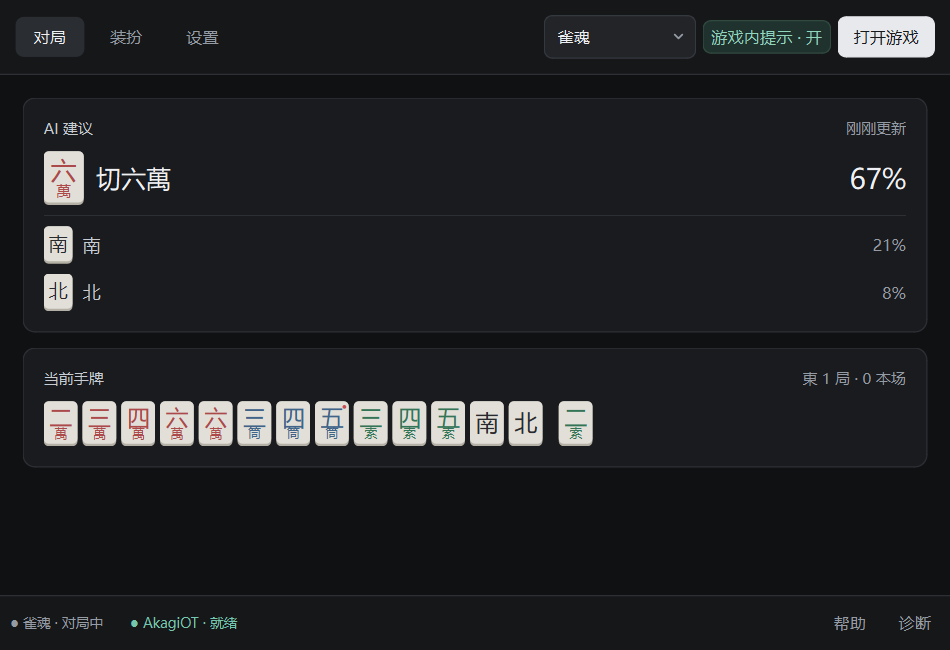
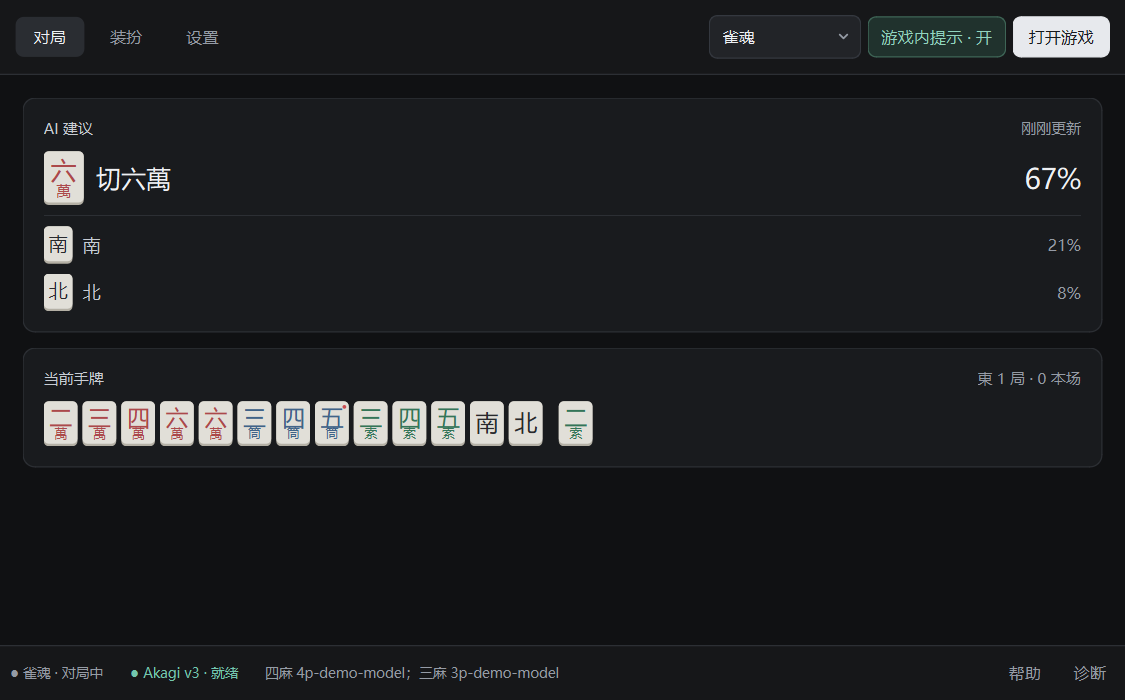
更新 README 与界面截图，完善安装和模型配置说明
重新生成主界面、AI 连接、代理配置和装扮页截图，补充实际游戏内提示卡片，移除旧独立悬浮窗截图。
精简重复的 exe 和历史工作目录说明，补充首次获取、选择、保存模型及查看加载状态的步骤。
明确 Akagi v3 与旧版 OT 的三麻依赖区别，修正文档链接。
新增离线截图生成工具，使用临时配置与虚构型号，不包含个人凭据。
同步更新 CHANGELOG 和发布说明；截图生成、文档链接及发布文件检查通过。

diff --git a/scripts/capture_readme.py b/scripts/capture_readme.py
@@ -1,0 +1,132 @@
+# Modified for MahjongCopilotPlus on 2026-11-04; see NOTICE.md.
+"""Capture current Qt/HTML widgets with disposable offline demonstration data.
+
+Run from the repository root: python scripts/capture_readme.py
+No backend, account settings, proxy server or global hotkey is started.
+"""
+import json
+import os
+from pathlib import Path
+import sys
+import tempfile
+import time
+from types import SimpleNamespace
+from unittest.mock import patch
+
+os.environ.setdefault('QT_SCALE_FACTOR', '1')
+ROOT = Path(__file__).resolve().parent.parent
+sys.path.insert(0, str(ROOT/'tests'))
+sys.path.insert(0, str(ROOT))
+
+from qt_preview import create_preview, create_application, Settings
+from bot_manager import mjai_reaction_2_guide
+from common.lan_str import LanStrZHS
+from common.log_helper import LOGGER
+from common.presentation import advice_rows
+from game.guide_overlay import RENDER_GUIDE
+from playwright.sync_api import sync_playwright
+
+OUTPUT = ROOT/'assets/screenshots'
+MODELS = {'4p':'4p-demo-model', '3p':'3p-demo-model'}
+
+
+def pump(app):
+    deadline = time.monotonic()+.15
+    while time.monotonic()<deadline:
+        app.processEvents()
+        time.sleep(.01)
+
+
+def capture_desktop():
+    LOGGER.setLevel(50)
+    app = create_application()
+    app.setQuitOnLastWindowClosed(False)
+    with tempfile.TemporaryDirectory(prefix='copilot-readme-') as directory:
+        st = Settings(str(Path(directory)/'settings.json'))
+        st.desktop_size = [900,560]
+        st.model_type, st.akagi_ot_protocol = 'AkagiOT', 'v3'
+        st.akagi_v3_apikey = 'demo-only-not-a-real-key'
+        st.akagi_v3_model_4p, st.akagi_v3_model_3p = MODELS['4p'], MODELS['3p']
+        # Never read or alter the user's wardrobe selection or enable flag.
+        with patch('gui.wardrobe.expansion_enabled',return_value=True):
+            window = create_preview(st)
+        manager = window.bot_manager
+        manager.bot = SimpleNamespace(name='Offline demonstration',protocol='v3',
+                                      models=MODELS,model_confirmed=False)
+        manager.mitm_proxinject_need_update = False
+        window.show()
+        try:
+            pump(app)
+            window._refresh_game()
+            pump(app)
+            assert '4p-demo-model' in window.model_status.toolTip()
+            assert window.hand_card.isVisible()
+            assert window.grab().save(str(OUTPUT/'game.png'))
+
+            window.resize(900,660)
+            window.show_settings(1)
+            pump(app)
+            page = window.settings_page
+            assert page.fields['akagi_v3_apikey'].text()==st.akagi_v3_apikey
+            assert page.fields['akagi_v3_apikey'].echoMode().name=='Password'
+            assert page.fetch_ot_button.isVisible()
+            assert page.pages.widget(1).verticalScrollBar().maximum()==0
+            assert window.grab().save(str(OUTPUT/'ai.png'))
+
+            window.show_settings(3)
+            window.show_connection()
+            pump(app)
+            assert not window.connection_upstream_switch.isChecked()
+            assert st.mitm_port==10999 and st.upstream_proxy==''
+            assert window.grab().save(str(OUTPUT/'proxy.png'))
+            window._modal.dismiss()
+
+            window.resize(900,560)
+            window.show_page(1)
+            pump(app)
+            assert window.btn_start_browser.text()=='打开游戏'
+            assert window.grab().save(str(OUTPUT/'wardrobe.png'))
+        finally:
+            manager.game_state = None
+            window.close()
+            deadline = time.monotonic()+5
+            while not window._shutdown_finished and time.monotonic()<deadline:
+                pump(app)
+            assert window._shutdown_finished
+
+
+def capture_overlay():
+    with sync_playwright() as playwright:
+        browser = playwright.chromium.launch(headless=True,chromium_sandbox=True)
+        try:
+            page = browser.new_page(viewport={'width':1280,'height':720},device_scale_factor=2)
+            # Block all network requests, including any accidental asset loads.
+            page.route('**/*',lambda route:route.abort())
+            page.set_content('<body style="margin:0;background:#101113"><canvas id="owner"></canvas></body>')
+            line, options = mjai_reaction_2_guide(
+                {'type':'dahai','pai':'6m','meta_options':[('6m',.67),('S',.21),('N',.08)]},
+                3,LanStrZHS())
+            rendered = page.evaluate(RENDER_GUIDE,{
+                'id':'readme-guide','ownerId':'owner','line':line,'options':options,
+                'left':0,'top':0,'width':1280,'height':720,
+                'rows':advice_rows(line,options,LanStrZHS())})
+            assert rendered is not False
+            card = page.locator('#readme-guide')
+            assert card.locator('[data-guide-row]').count()==3
+            assert card.locator('[data-guide-tile]').count()==3
+            card.screenshot(path=str(OUTPUT/'overlay.png'))
+        finally:
+            browser.close()
+
+
+def main():
+    OUTPUT.mkdir(parents=True,exist_ok=True)
+    with patch('requests.sessions.Session.request',side_effect=RuntimeError('README capture is offline')):
+        capture_desktop()
+        capture_overlay()
+    print(json.dumps({'ok':True,'screenshots':['game.png','ai.png','proxy.png','wardrobe.png','overlay.png'],
+                      'data':'offline fixtures; demonstration model IDs; no account credentials'}))
+
+
+if __name__=='__main__':
+    main()

diff --git a/readme.md b/readme.md
@@ -9,15 +9,17 @@
 
 MahjongCopilotPlus 在 [MahjongCopilot](https://github.com/latorc/MahjongCopilot) 的基础上持续开发，参考 [MahjongCopilot-max](https://github.com/jiboyingg/MahjongCopilot-max) 的整合思路，接入 [MajsoulMax](https://github.com/Avenshy/MajsoulMax)，并重构桌面界面、设置和提示体验。
 
-当前支持 **雀魂三麻／四麻**，具体可用模式取决于模型服务及本机原生库。天凤、一番街、天月麻将、掌心麻将仍在规划中，尚未实现。本项目与各游戏平台及上游项目没有官方隶属关系。
+当前支持 **雀魂三麻／四麻**。Akagi v3 三麻无需本地三麻扩展；本地模型与旧版 OT 的原生库要求见下文。天凤、一番街、天月麻将、掌心麻将仍在规划中，尚未实现。本项目与各游戏平台及上游项目没有官方隶属关系。
 
-> 本项目现采用 **源码部署 + `start.bat` 启动**，后续版本不再构建或上传 exe／Windows 便携包。请自行安装 Python 3.11 x64、依赖与 Chromium。历史 exe 为固定快照，不会随源码更新。Issues、PR 和后续源码更新以[本仓库](https://github.com/btlstar/MahjongCopilotPlus)为准；上游下载站和社群不是 Plus 的支持渠道。
+> **源码部署，通过 `start.bat` 启动。** 请先安装 Python 3.11 x64、依赖与 Chromium；不提供 exe／免安装运行包。更新与问题反馈请使用[本仓库](https://github.com/btlstar/MahjongCopilotPlus)。
 
-![主界面，使用离线示例数据](assets/screenshots/game.png)
+![对局页：AI 建议、当前手牌及底部已加载型号](assets/screenshots/game.png)
+
+截图基于 `v0.1.0-preview.3` 的实际界面，以离线演示数据生成；`4p-demo-model`／`3p-demo-model` 为虚构示例，不是可用型号、默认型号或最新型号推荐。
 
 ## 当前版本
 
-`v0.1.0-preview.3`：完善 AI 连接与模型状态，修复刷新后的游戏内提示恢复及网络异常时程序误关浏览器的问题。仅发布源码，安装依赖后使用 BAT 启动。详见[本次发布说明](docs/RELEASE_NOTES.md)与[更新记录](CHANGELOG.md)。
+`v0.1.0-preview.3`：完善 AI 连接与模型状态，修复刷新后的游戏内提示恢复及网络异常时程序误关浏览器的问题。详见[本次发布说明](docs/RELEASE_NOTES.md)与[更新记录](CHANGELOG.md)。
 
 ## 特性
 
@@ -33,19 +35,23 @@ MahjongCopilotPlus 在 [MahjongCopilot](https://github.com/latorc/MahjongCopilot
 <details>
 <summary>更多界面截图</summary>
 
-AI 连接设置：
+AI 连接设置：密钥显隐、按玩法选择型号、获取列表与测试连接。
 
-![AI 连接](assets/screenshots/ai.png)
+![AI 连接设置，使用虚构型号与隐藏的演示密钥](assets/screenshots/ai.png)
 
-程序内连接配置：
+游戏内提示卡片（局部截图）：与主界面共享麻将牌样式，整张卡片可拖动，不另开独立窗口。
+
+![实际游戏内 HTML 提示卡片，离线渲染](assets/screenshots/overlay.png)
+
+程序内连接配置：本地端口与上游代理分开设置，图中为关闭上游代理。
 
 ![连接与代理](assets/screenshots/proxy.png)
 
-装扮搭配参考：
+装扮搭配参考：在游戏内逐项装备，不支持 GUI 一键应用。
 
 ![装扮页](assets/screenshots/wardrobe.png)
 
-以上截图均使用离线示例数据，不代表连接到了实际账号。
+截图不包含个人账号、真实密钥或私人对局，也不表示已连接线上服务。
 
 </details>
 
@@ -59,9 +65,9 @@ AI 连接设置：
 
 ### 获取源码
 
-推荐通过 GitHub Desktop Clone 本仓库，之后在同一个工作目录 Pull、修改和运行。也可下载某一 Release 的 `Source code (zip)` 后自行安装依赖；它不是免安装运行包。后续不提供 `windows-x64.zip`。
+推荐通过 GitHub Desktop Clone 本仓库，后续在同一目录 Pull 更新。也可下载 Release 的 `Source code (zip)` 后安装依赖；该文件仅包含源码。
 
-只维护一份工作树；旧下载目录和历史 exe 不再作为开发入口。具体目录约定见[开发目录说明](docs/WORKSPACE.md)，更新及配置迁移见[升级说明](docs/UPGRADING.md)。
+更新及旧版配置迁移见[升级说明](docs/UPGRADING.md)；参与开发请参阅[工作目录约定](docs/WORKSPACE.md)。
 
 ### 源码安装与启动
 
@@ -79,7 +85,12 @@ py -3.11 -m venv venv
 
 完成安装后，可双击根目录 **`start.bat`**。它使用项目内的 `venv`，不是免安装启动器。
 
-首次启动会生成本地 `settings.json`。打开“设置 → AI 连接”，配置并测试模型来源，保存后等待 AI 加载，再点击“打开游戏”。程序会使用自己启动的浏览器进行连接和捕获。
+首次启动会生成本地 `settings.json`。以 Akagi v3 为例：
+
+1. 打开“设置 → AI 连接”，选择 `AkagiOT` 和 `Akagi v3 · 可选模型`，填写对应 API Key。
+2. 点击“获取可用模型”，在四麻／三麻下拉框选择所需型号；至少选择一种玩法，留空的玩法不启用。
+3. 测试连接后保存，等待底部状态栏显示就绪及已加载型号。测试通过只代表连接与授权检查通过。
+4. 点击“打开游戏”，在程序启动的浏览器中进入对局。顶栏“游戏内提示”控制游戏内卡片；没有建议时可从右下角“诊断”查看原因。
 
 如果显示代理证书安装错误，按[安装与排错说明](docs/INSTALL.md)处理。不要将程序生成的证书私钥、浏览器资料或含凭据的设置文件提交到 GitHub。
 
@@ -87,19 +98,20 @@ py -3.11 -m venv venv
 
 | 来源 | 需要准备 |
 | --- | --- |
-| AkagiOT | Akagi v3 可指定四麻／三麻模型；旧版 OT 使用服务端默认。两种接口分别保存地址与 API Key，见[配置说明](docs/INSTALL.md#ai-配置) |
+| Akagi v3（AkagiOT 来源） | 对应服务的 API Key；获取授权列表后手动选择四麻／三麻型号；三麻无需本地扩展 |
+| 旧版 OT（AkagiOT 来源） | 兼容旧接口的地址与密钥；使用服务端默认型号，三麻需要额外原生库 |
 | MJAI | 服务地址、已有账户的用户名和密钥，以及可用模型 |
 | 本地 Mortal | 与当前引擎兼容的权重；四麻与三麻分别选择文件 |
 
 本地模型和旧版 OT 的四麻原生依赖通过 `requirements.txt` 中的 `riichi` 安装；其三麻还需单独取得匹配 Python 版本、系统和架构的 `libriichi3p`，它不随本源码仓库分发。**Akagi v3 使用服务端推理，三麻无需该本地扩展。**具体文件名和注意事项见[安装说明](docs/INSTALL.md#三麻原生库)。模型权重和外部原生库始终遵循其原始分发条款。
 
-切换 AI 来源只切换配置表单，不代表已连接成功。保存后的新模型会在非对局状态加载；对局中更改会延后至当前对局结束。
+不同来源与新旧 Akagi 接口分别保存配置，密钥不保证通用。切换来源只切换表单；保存后的新模型在非对局状态加载，对局中更改延后至当前对局结束。详见[AI 配置说明](docs/INSTALL.md#ai-配置)。
 
 ## 装扮扩展
 
 内置集成基于 MajsoulMax `v2026.07.07`，资源／协议快照为 MajsoulData `0.16.289-4.0.51`。准确版本、来源和校验值见 [data_version.json](mjmax/config/data_version.json)，更新方式见[集成说明](mjmax/INTEGRATION.md)。这不是“永久支持所有最新皮肤”的保证。
 
-装扮在游戏内选择，个人选择写入被 Git 忽略的本地配置。GUI 中的两套搭配为参考，不会自动替换你的装备。修改效果属于本地客户端显示，不会给账号增加服务器端拥有的物品。
+装扮在游戏内选择，个人选择写入被 Git 忽略的本地配置。GUI 中的搭配为参考，不会自动替换你的装备。修改效果属于本地客户端显示，不会给账号增加服务器端拥有的物品。
 
 ## 功能范围与使用提示
 
@@ -123,7 +135,8 @@ py -3.11 -m venv venv
 - [MajsoulMax 集成与数据更新](mjmax/INTEGRATION.md)
 - [贡献指南](CONTRIBUTING.md)
 - [更新记录](CHANGELOG.md)
-- [发布说明草稿与流程](docs/PUBLISHING.md)
+- [当前版本发布说明](docs/RELEASE_NOTES.md)
+- [源码发布流程](docs/PUBLISHING.md)
 - [第三方来源与许可](THIRD_PARTY_NOTICES.md)
 
 离线检查：
@@ -134,6 +147,8 @@ py -3.11 -m venv venv
 .\venv\Scripts\python.exe tests/native_desktop_smoke.py
 .\venv\Scripts\python.exe scripts/check_publication.py
 ```
+
+重新生成 README 截图：`python scripts/capture_readme.py`。该工具使用临时配置和虚构型号渲染真实 Qt／HTML 组件，不启动真实游戏、代理或 AI 后端，不注册老板键，也不读取个人设置。
 
 桌面检查会打开临时的离线测试窗口，不登录真实游戏。源码预览通过离线检查不代表所有游戏版本、服务接口或自动点击场景均经过实战验证。
 
@@ -154,4 +169,4 @@ py -3.11 -m venv venv
 
 ---
 
-**English:** MahjongCopilotPlus is a community-maintained MahjongCopilot derivative with a redesigned dark Qt desktop, consistent tile rendering, draggable advice overlays, configurable global hotkeys, and optional MajsoulMax integration. Mahjong Soul is currently supported; other platforms are planned. Model weights, credentials and optional three-player/client-injection dependencies are not bundled. Future updates are distributed as source only; install Python and dependencies, then launch with start.bat. Historical exe builds are snapshots and are no longer updated. See the license and third-party notices before redistribution.
+**English:** MahjongCopilotPlus is a community-maintained MahjongCopilot derivative with a redesigned dark Qt desktop, consistent tile rendering, draggable advice overlays, configurable global hotkeys, and optional MajsoulMax integration. Mahjong Soul is currently supported; other platforms are planned. Model weights, credentials and optional three-player/client-injection dependencies are not bundled. Distributed as source only; install Python, dependencies and Chromium, then launch with start.bat. See the license and third-party notices before redistribution.

diff --git a/docs/INSTALL.md b/docs/INSTALL.md
@@ -32,7 +32,7 @@ py -3.11 -m venv venv
 
 密钥输入框右侧的眼睛图标可显示／隐藏内容；默认隐藏，切换来源、接口或离开 AI 设置时恢复隐藏，不改变已输入的值。
 
-Akagi 新旧接口的连接测试、模型列表和推理不再自动使用系统／环境代理；游戏“上游代理”是另一条独立配置。TUN 仍可能接管 AI 连接，需要在 Mihomo 等客户端为 AI 域名添加 DIRECT 规则，详见[网络说明](NETWORK.md#akagiotakagi-v3-始终选择直连出站)。
+Akagi 新旧接口的连接测试、模型列表和推理不再自动使用系统／环境代理；游戏“上游代理”是另一条独立配置。TUN 仍可能接管 AI 连接，需要在 Mihomo 等客户端为 AI 域名添加 DIRECT 规则，详见[网络说明](NETWORK.md#akagiotakagi-v3-的应用层直连)。
 
 v3 支持同源 HTTP 重定向，推理 POST 仅跟随保留方法的 307／308；不会自动向其他域名、端口或较低安全协议转发密钥。跨源跳转时会显示目标站点供核对。若显示 HTML 网页／网络防护错误，说明没有收到正常 API JSON，不能直接当作密钥授权失败。原版 Copilot 的代理启动、证书或本地模型缺失错误与 API 重定向是不同问题。
 

diff --git a/docs/RELEASE_NOTES.md b/docs/RELEASE_NOTES.md
@@ -27,6 +27,10 @@
 - 诊断显示游戏转发路径、HTTP 错误类别和 WebSocket 关闭元数据，新增记录不包含请求参数、代理凭据或牌局消息正文。
 - 应用层直连不能绕过系统 TUN。专属客户端需在自己的规则界面配置直连；Mihomo YAML 示例仅供对应内核使用。见[网络排查](https://github.com/btlstar/MahjongCopilotPlus/blob/v0.1.0-preview.3/docs/NETWORK.md)。
 
+## 文档与截图
+
+更新 README 的对局、AI 连接、代理配置与装扮截图，并补充实际游戏内提示卡片。全部使用临时离线数据和虚构型号，提供可重复生成的截图工具；精简历史迁移文字，补充首次选择与保存模型的操作步骤。
+
 ## 安装与升级
 
 **本版本只提供源码，不提供 exe 或 windows-x64.zip。** GitHub Release 自动生成的 `Source code (zip)`／`tar.gz` 即为源码下载，不是免安装运行包。

diff --git a/CHANGELOG.md b/CHANGELOG.md
@@ -4,6 +4,7 @@
 
 ## [0.1.0-preview.3] - 2026-11-04
 
+- 更新 README 的主界面、AI 连接、连接配置和装扮截图，补充实际游戏内提示卡片；增加使用临时离线数据的截图生成工具，精简历史迁移说明并完善首次 AI 配置步骤。
 - 默认启用 Chromium 沙箱，移除显式 `--no-sandbox`，使用测试启动标记跳过 Google API 密钥等启动信息条；合并普通／扩展模式的重复启动代码。
 - Akagi v3 和旧版 OT 的连接检查、模型列表及实际推理不再自动继承系统／环境代理；旧版推理复用直连会话。
 - 补充 AI 域名直连、TUN 出站确认与专属客户端排查说明；Mihomo YAML 示例仅适用于对应内核，游戏上游代理和 AI 请求路径互相独立。
